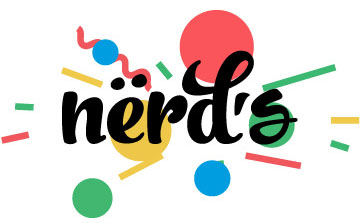
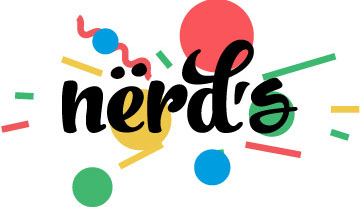
Заголовок поместила в ссылку, заново сделала все png
img studio.jpg пока оставила jpg, жду feedback от тебя

diff --git a/index.html b/index.html
@@ -8,67 +8,69 @@
   <body>
 	<header>
 		<div class="main-header">
-			<a>
-				<img src="img/nerds-logo.png" width="160" height="65" alt="Нёрдс">
-			</a>
-			<nav class="main-navigation">
-				<ul>
-					<li>
-						<a href="#">Студия</a>
-					</li>
-					<li>
-						<a href="#">Клиенты</a>
-					</li>
-					<li>
-						<a href="#">Магазин</a>
-					</li>
-					<li>
-						<a href="#">Контакты</a>
-					</li>
-				</ul>
-			</nav>	
-			<div class="user-block">
-				<a href="#">Корзина
-					<img src="#" width="#" height="#" alt="Корзина">
+			<div class="container clearfix">
+				<a>
+					<img src="img/nerds-logo.png" width="160" height="65" alt="Нёрдс">
 				</a>
+				<nav class="main-navigation">
+					<ul>
+						<li>
+							<a href="#">Студия</a>
+						</li>
+						<li>
+							<a href="#">Клиенты</a>
+						</li>
+						<li>
+							<a href="#">Магазин</a>
+						</li>
+						<li>
+							<a href="#">Контакты</a>
+						</li>
+					</ul>
+				</nav>	
+				<div class="user-block">
+					<a href="#">Корзина
+						<img src="#" width="#" height="#" alt="Корзина">
+					</a>
+				</div>
+				<div class="slogan">
+					<b>Долго, дорого, скрупулезно.</b>
+					<p>Математически выверенный дизайн для вашего сайта или мобильного приложения</p>
+					<a class="more" href="#">Узнать больше</a>
+				</div>
+				<div class="banner">	
+					<a href="#">
+						<img src="#" width="#" height="#" alt="Баннер">
+					</a>
+					<a href="#">
+						<img src="#" width="#" height="#" alt="Переключатель">
+					</a>
+				</div>
+				<!-- Картинки меняются при нажатии кнопки
+				<div class="slogan">
+					<b>Любим математику, как никто другой.</b>
+					<p>Никакого креатива, только математические формулы для расчета идеальных пропорций.</p>
+					<a class="more" href="#">Узнать больше</a>
+				</div>
+				<div class="banner">	
+					<a href="#">
+						<img src="#" width="#" height="#" alt="Баннер">
+					</a>
+				</div>
+				<div class="slogan">
+					<b>Только ночь, только хардкор.</b>
+					<p>Работать днём, как все? Мы против этого. Ближе к полуночи работа только начинается.</p>
+					<a class="more" href="#">Узнать больше</a>
+				</div>
+				<div class="banner">	
+					<a href="#">
+						<img src="#" width="#" height="#" alt="Баннер">
+					</a>
+				</div>-->
 			</div>
-			<div class="slogan">
-				<b>Долго, дорого, скрупулезно.</b>
-				<p>Математически выверенный дизайн для вашего сайта или мобильного приложения</p>
-				<a class="more" href="#">Узнать больше</a>
-			</div>
-			<div class="banner">	
-				<a href="#">
-					<img src="#" width="#" height="#" alt="Баннер">
-				</a>
-				<a href="#">
-					<img src="#" width="#" height="#" alt="Переключатель">
-				</a>
-			</div>
-			<!-- Картинки меняются при нажатии кнопки
-			<div class="slogan">
-				<b>Любим математику, как никто другой.</b>
-				<p>Никакого креатива, только математические формулы для расчета идеальных пропорций.</p>
-				<a class="more" href="#">Узнать больше</a>
-			</div>
-			<div class="banner">	
-				<a href="#">
-					<img src="#" width="#" height="#" alt="Баннер">
-				</a>
-			</div>
-			<div class="slogan">
-				<b>Только ночь, только хардкор.</b>
-				<p>Работать днём, как все? Мы против этого. Ближе к полуночи работа только начинается.</p>
-				<a class="more" href="#">Узнать больше</a>
-			</div>
-			<div class="banner">	
-				<a href="#">
-					<img src="#" width="#" height="#" alt="Баннер">
-				</a>
-			</div>-->
 		</div>	
 	</header>
-    <main>
+    <main class="container">
 		<div class="content">
 			<article>
 				<a href="#">
@@ -134,15 +136,17 @@
 				</a>
 			</div>
 		</div>
-		<div class="contacts">
-			<h3>
-				<a href="#">Nёrds design studio</a>
-			</h3>
-			<p>191186, Санкт-Петербург,<br>
-			ул. Б. Конюшенная , д. 19/8<br>
-			тел. +7 (812) 275-75-75</p>
-			<button type="button">Напишите нам</button>
-		</div>
+		<div class="container">
+			<div class="contacts">
+				<h3>
+					<a href="#">Nёrds design studio</a>
+				</h3>
+				<p>191186, Санкт-Петербург,<br>
+				ул. Б. Конюшенная , д. 19/8<br>
+				тел. +7 (812) 275-75-75</p>
+				<button type="button">Напишите нам</button>
+			</div>
+		</div>	
 		<div class="map">
 			<img src="#" width="#" height="#" alt="Карта">
 		</div>

diff --git a/nerds-catalog.html b/nerds-catalog.html
@@ -94,64 +94,64 @@
 			</div>
 			<div class="templates">
 				<div class="templates-sedona">
-					<h2>Sedona</h2>
+					<a href="#">
+						<h2>Sedona</h2>
+					</a>
 					<span class="name">Информационный сайт для туристов</span>
 					<span class="price">
 						<a href="#">9 900 руб.</a>
 					</span>	
-					<a href="#">
-						<img src="img/templates-sedona.jpg" width="360" height="613" alt="Седона">
-					</a>	
+					<img src="img/templates-sedona.jpg" width="360" height="613" alt="Седона">
 				</div>
 				<div class="templates-pink">
-					<h2>Pink App</h2>
+					<a href="#">
+						<h2>Pink App</h2>
+					</a>	
 					<span class="name">Продуктовый лендинг приложения для iOS и Android</span>
 					<span class="price">
 						<a href="#">9 900 руб.</a>
 					</span>
-					<a href="#">
-						<img src="img/templates-pink.jpg" width="360" height="613" alt="Пинк">
-					</a>	
+					<img src="img/templates-pink.jpg" width="360" height="613" alt="Пинк">
 				</div>
 				<div class="templates-barbershop">
-					<h2>Barbershop</h2>
+					<a href="#">
+						<h2>Barbershop</h2>
+					</a>
 					<span class="name">Сайт салоны красоты. Для мужчин, да.</span>
 					<span class="price">
 						<a href="#">9 900 руб.</a>
 					</span>
-					<a href="#">
-						<img src="img/templates-barbershop.jpg" width="360" height="613" alt="Барбершоп">
-					</a>	
+					<img src="img/templates-barbershop.jpg" width="360" height="613" alt="Барбершоп">
 				</div>
 				<div class="templates-mishka">
-					<h2>Mishka</h2>
+					<a href="#">
+						<h2>Mishka</h2>
+					</a>
 					<span class="name">Интернет-магазин вязаных игрушек</span>
 					<span class="price">
 						<a href="#">9 900 руб.</a>
 					</span>
-					<a href="#">
-						<img src="img/templates-mishka.jpg" width="360" height="613" alt="Мишка">
-					</a>	
+					<img src="img/templates-mishka.jpg" width="360" height="613" alt="Мишка">
 				</div>		
 				<div class="templates-plus">
-					<h2>A plus</h2>
+					<a href="#">
+						<h2>A plus</h2>
+					</a>	
 					<span class="name">Лендинг курсов повышения квалификации</span>
 					<span class="price">
 						<a href="#">9 900 руб.</a>
 					</span>
-					<a href="#">
-						<img src="img/templates-plus.jpg" width="360" height="613" alt="Плюс">
-					</a>	
+					<img src="img/templates-plus.jpg" width="360" height="613" alt="Плюс">
 				</div>
 				<div class="templates-kvast">
-					<h2>Кваст</h2>
+					<a href="#">
+						<h2>Кваст</h2>
+					</a>	
 					<span class="name">Промо-сайт производителя крафтового кваса</span>
 					<span class="price">
 						<a href="#">9 900 руб.</a>
 					</span>
-					<a href="#">
-						<img src="img/templates-kvast.jpg" width="360" height="613" alt="Кваст">
-					</a>	
+					<img src="img/templates-kvast.jpg" width="360" height="613" alt="Кваст">
 				</div>
 			</div>		
 		</div>		

diff --git a/css/style.css b/css/style.css
@@ -1,7 +1,27 @@
+* {box-sizing: border-box;}
 body {
+	background-color: #51689D;
 	font-size: 16px;
 	line-height: 24px;
 	color: #000000;
+}
+.clearfix::after {
+	content: "";
+	display: table;
+	clear: both;
+}
+.container {
+	background-color: #9B9FA3;
+	width: 1200px;
+	padding: 0 10px;
+	margin: 0 auto;
+}
+.main-header {
+	background-color: #BED1E8;
+}
+.main-navigation {
+	background-color: #8C9DC3;
+}
 }
 h1{
 	font-size: 55px;
